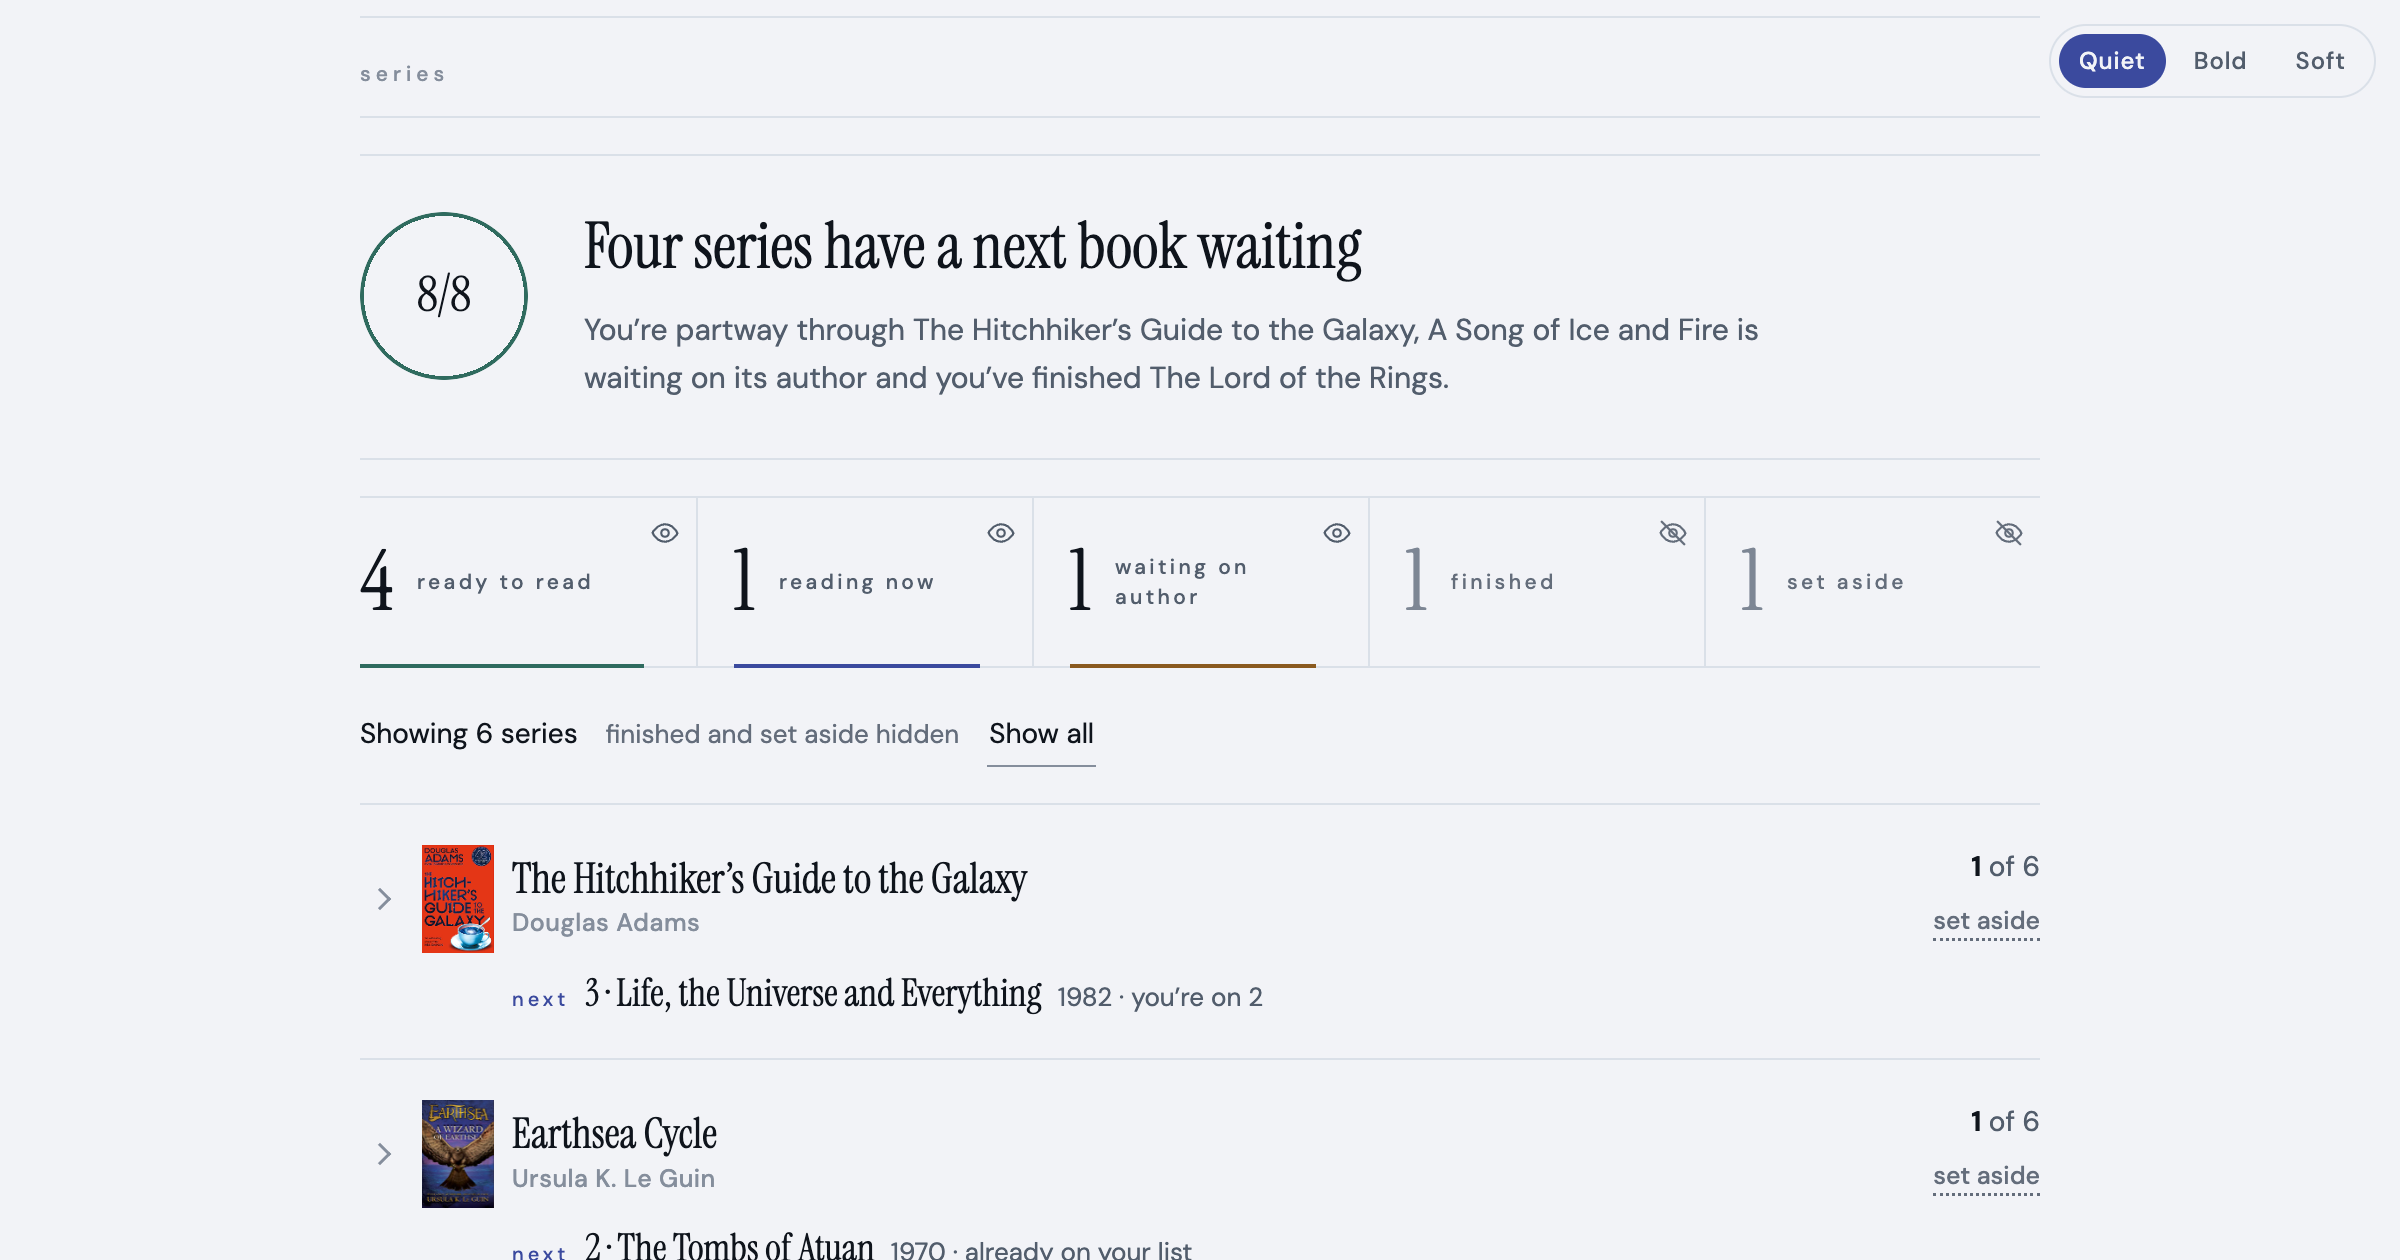
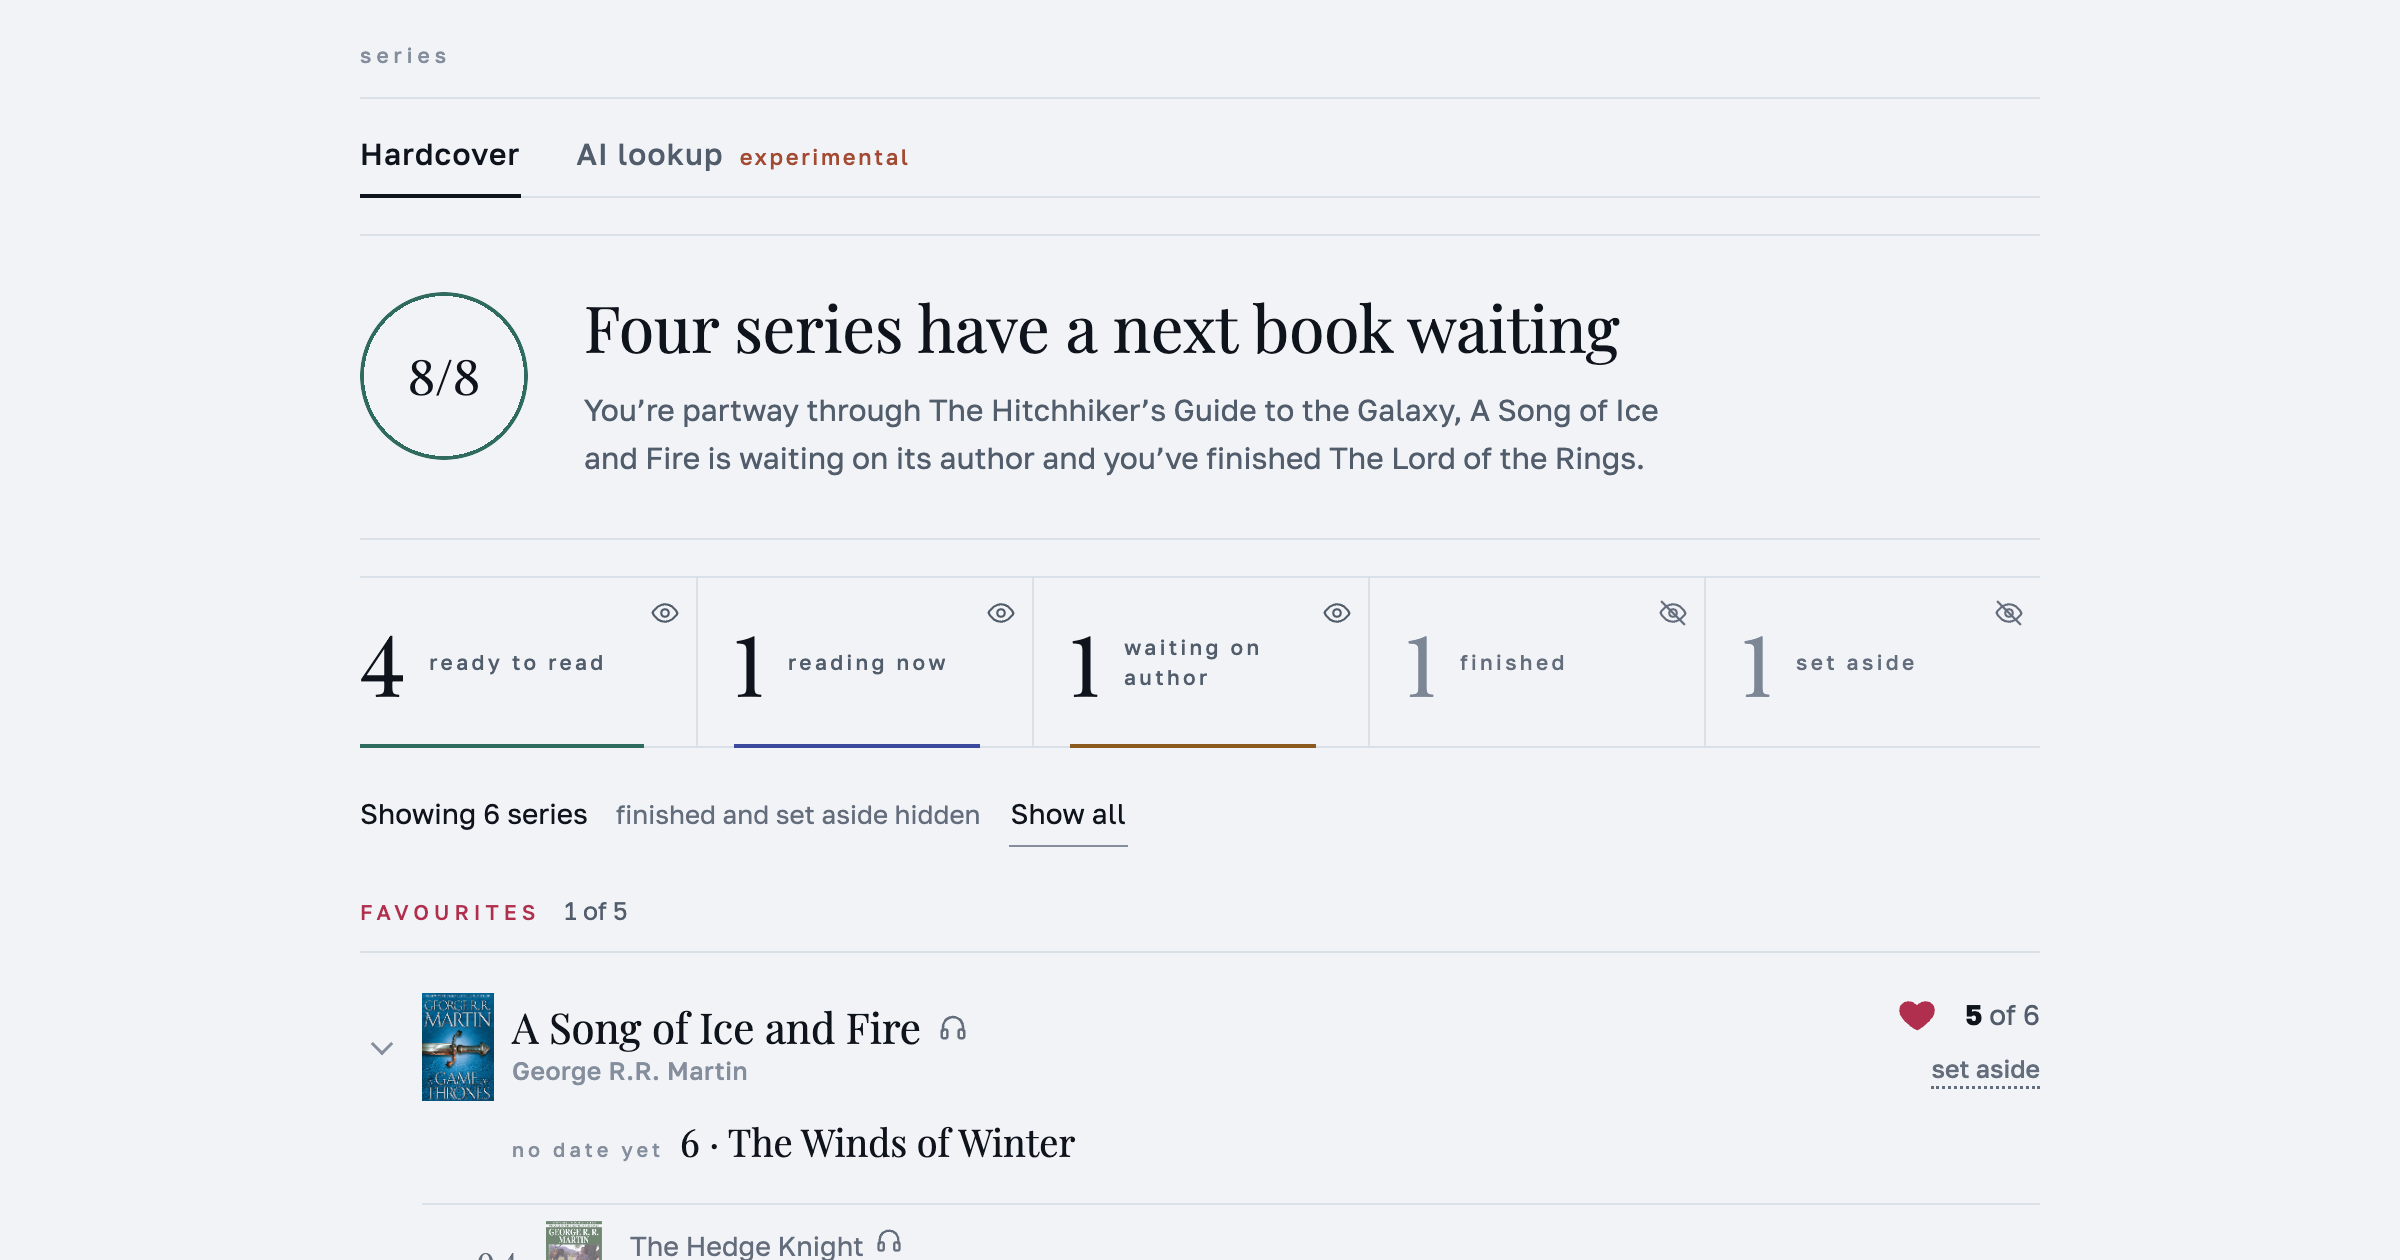
Keep the language and look pickers on screen; new board picture (#32)
- The two pills stay fixed in the window's top corner on wide screens
  again, as the look pill did before the language switch joined it. The
  Ukrainian change had let them scroll away with the page. Trade-off, noted
  in src/index.css: together they are about 300px wide, so in a window
  narrower than about 1500px they lie over the board's right edge while it
  scrolls. Below 900px nothing changes: the round buttons sit in the
  masthead and scroll with it.
- docs/series-board.png and public/preview.png (the README picture and the
  link preview) retaken with the new fonts, from the sample library.

Claude-Session: https://claude.ai/code/session_01VJhZhfV41FPjuyorydwdMQ

diff --git a/src/index.css b/src/index.css
@@ -930,14 +930,13 @@ button.ghost {
 /* One corner block for both, so neither has to know how wide the other is
    in the current language and look.
 
-   Absolute, not fixed: it sits in the window's top corner and scrolls away
-   with the page. The look pill alone used to stay fixed there. Two pills
-   are wide enough to cover the board's right edge in any window narrower
-   than about 1500px, and a setting changed once a visit is not worth
-   covering the list for. It is positioned against the window because none
-   of its ancestors is positioned at this width (see .masthead below). */
+   Fixed: it stays in the window's top corner while the page scrolls, so the
+   language and the look can be changed from anywhere on the page.
+   Trade-off: the two pills together are about 300px wide, so in a window
+   narrower than about 1500px they lie over the right edge of the board
+   while it scrolls under them. */
 .prefs {
-  position: absolute;
+  position: fixed;
   top: 12px;
   right: 12px;
   z-index: 10;
@@ -1078,9 +1077,10 @@ button.ghost {
 
 @media (max-width: 899px) {
   .skins { display: none; }
-  /* Positioned here only, so the buttons sit in the masthead's own corner. */
+  /* The round buttons are not fixed: they sit in the masthead's own corner
+     and scroll away with it. */
   .masthead { position: relative; }
-  .prefs { top: 0; right: 0; z-index: 20; }
+  .prefs { position: absolute; top: 0; right: 0; z-index: 20; }
   /* Relative, so the dial's circles drop from their own button. */
   .skin-dial { display: block; position: relative; }
   .masthead h1,
